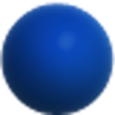
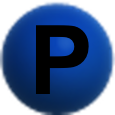
- Added new font, Aldo the Apache. - Added a "P" to joystick button

Changed region(s): [[0.313, 0.2087, 0.7826, 0.8348]]

diff --git a/EatFighter/ModalAlert.m b/EatFighter/ModalAlert.m
@@ -34,7 +34,7 @@
 #define kAnimationTime 0.4f
 #define kDialogImg @"dialogBox.png"
 #define kButtonImg @"dialogButton.png"
-#define kFontName @"Ginko"
+#define kFontName @"Aldo the Apache"
 
 // class that implements a black colored layer that will cover the whole screen 
 // and eats all touches except within the dialog box child
@@ -101,8 +101,8 @@
     
     // add the alert text
     CGSize msgSize = CGSizeMake(dialog.contentSize.width * 0.9, dialog.contentSize.height * 0.55);
-    float fontSize = (UI_USER_INTERFACE_IDIOM() == UIUserInterfaceIdiomPad)?42:20;
-    float buttonFontSize = 20;
+    float fontSize = (UI_USER_INTERFACE_IDIOM() == UIUserInterfaceIdiomPad)?42:24;
+    float buttonFontSize = 22;
     
     CCLabelTTF *dialogMsg = [CCLabelTTF labelWithString:message dimensions: msgSize alignment:UITextAlignmentCenter 
                                                fontName:kFontName fontSize:fontSize];

diff --git a/EatFighter/FightLayer.m b/EatFighter/FightLayer.m
@@ -113,12 +113,12 @@ CGSize winSize;
     [self addChild:enemyHealthBar z:10];
     
     int labelOffset = 30;
-    CCLabelTTF *ryuLabel = [CCLabelTTF labelWithString:@"FUELED" fontName:@"Ginko" fontSize:30];
+    CCLabelTTF *ryuLabel = [CCLabelTTF labelWithString:@"FUELED" fontName:@"Aldo the Apache" fontSize:30];
     ryuLabel.position = ccp(winSize.width/5,healthBarHeight + labelOffset);
     ryuLabel.color = ccWHITE;
     [self addChild:ryuLabel z:10];
     
-    CCLabelTTF *enemyLabel = [CCLabelTTF labelWithString:[restaurant objectForKey:@"name"] fontName:@"Ginko" fontSize:18];
+    CCLabelTTF *enemyLabel = [CCLabelTTF labelWithString:[restaurant objectForKey:@"name"] fontName:@"Aldo the Apache" fontSize:18];
     enemyLabel.position = ccp(winSize.width/1.25,healthBarHeight + labelOffset);
     enemyLabel.color = ccRED;
     [self addChild:enemyLabel z:10];

diff --git a/EatFighter/MainMenuScene.m b/EatFighter/MainMenuScene.m
@@ -15,6 +15,8 @@
 - (id)init {
     self = [super init];
     if (self) {
+        [CCMenuItemFont setFontName:@"Aldo the Apache"];
+        [CCMenuItemFont setFontSize:50];
         CCMenuItemFont *startNew = [CCMenuItemFont itemWithString:@"New Game" target:self selector: @selector(newGame)];
         CCMenuItemFont *leaveReview = [CCMenuItemFont itemWithString:@"Write a Review" target:self selector: @selector(writeReview)];
         CCMenuItemFont *instructions = [CCMenuItemFont itemWithString:@"Instructions" target:self selector: @selector(showInstructions)];
